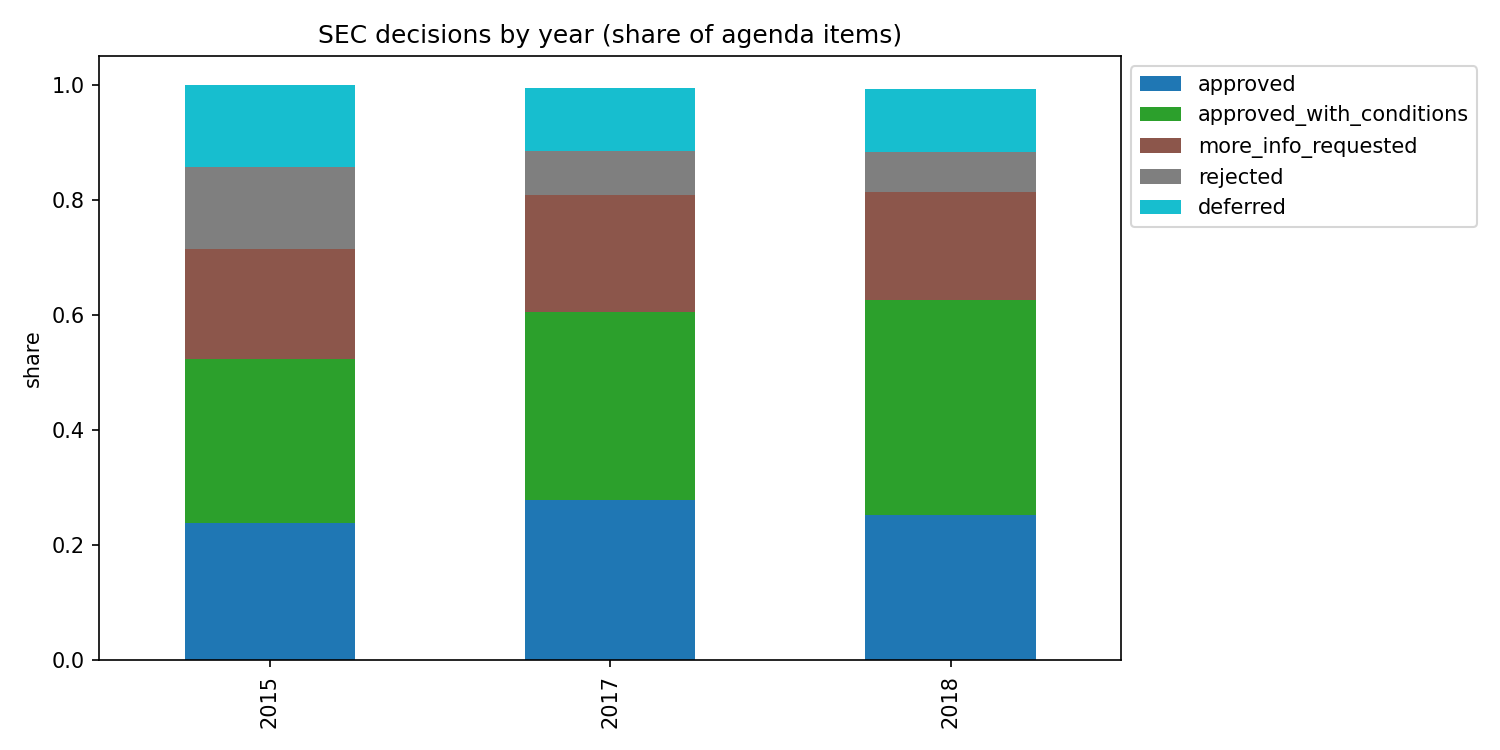
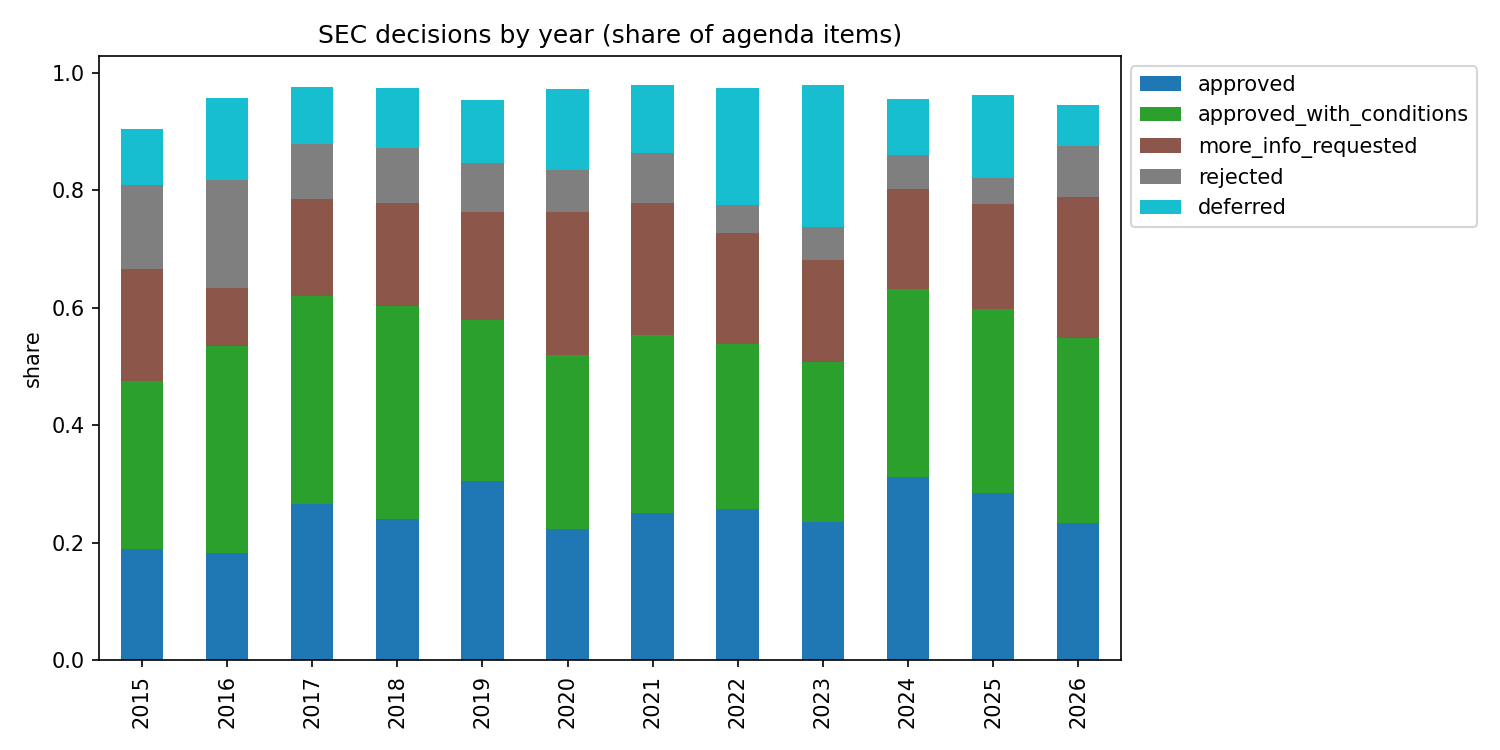
Trends, predictor baseline and paper draft on 4,670-item random sample

diff --git a/paper/regwatch_paper.md b/paper/regwatch_paper.md
@@ -1,0 +1,110 @@
+# RegWatch: LLM-Assisted Structuring and Analysis of a Decade of Indian Drug-Approval Committee Decisions
+
+*Draft, 2026-10-30. Numbers come from a fixed-seed random sample of 4,670 extracted agenda items (about one third of the corpus). The `[SAMPLE]` tables are refreshed when extraction completes. `[PENDING]` marks results that haven't been run yet.*
+
+## Abstract
+India's Central Drugs Standard Control Organisation (CDSCO) publishes the recommendations of its Subject Expert Committees (SECs) as unstructured PDF minutes. We build RegWatch, a pipeline that turns 1,864 SEC minutes (2015–2026) into a structured dataset of agenda-item decisions:
+- scraping and table-aware segmentation;
+- OCR for scanned files;
+- extraction of request type, decision, local-trial waiver and stated reasons by a large language model (LLM).
+
+Against 200 hand-labelled items, the extraction reaches Cohen's κ = 0.84 for the decision and κ = 0.74 for the request type. In a 4,575-decision random sample:
+- the decision mix differs across regulatory eras (χ² = 70.3, dof = 15, p < 10⁻⁸);
+- waiver requests are 7.3× more likely to be rejected (Fisher p < 10⁻⁴⁴);
+- the share of decisions stating any reason fell from about 44% (2016–17) to about 21% (2023–25).
+
+A leak-free baseline that predicts the decision from the request text alone reaches κ = 0.35 on later years.
+
+## 1. Introduction
+SEC recommendations decide whether new drugs, trials and label changes reach Indian patients, yet they exist only as PDF tables. Prior work examined subsets by hand [Shetty et al., citation needed]. We ask three questions:
+- **RQ1:** Can an LLM structure these minutes reliably?
+- **RQ2:** How have decisions, transparency and waiver outcomes changed across regulatory eras, especially the New Drugs and Clinical Trials (NDCT) Rules of 2019 and COVID-19?
+- **RQ3:** Can the outcome be predicted from what the applicant asks for?
+
+## 2. Data and pipeline
+1. **Collection.** The CDSCO SEC page index has 1,865 rows. We downloaded 1,864 PDFs (one .doc was skipped) and extracted text with PyMuPDF.
+2. **Segmentation.** Agenda items are cut from PDF table rows, giving 13,991 items.
+3. **OCR.** 65 scanned PDFs (mostly 2018–19) have no text layer. We OCR them with Tesseract and cut items at sequential item numbers. This added 273 items from 54 PDFs; 11 PDFs yielded none.
+4. **Extraction.** Each item of at least 80 characters goes to `gemini-3.5-flash-lite` (temperature 0, JSON output, batches of 10). The model returns is_decision, request type (7 classes), decision (6 classes), waiver requested or granted, reasons stated, a reason summary, conditions, and whether risk–benefit was discussed. Items are processed in a fixed random order, so any partial run is an unbiased sample.
+5. **Committee and year.** These come from the index. Committee names are normalised from about 60 title spellings by regular expressions. The year is the release year.
+
+## 3. Annotation and extraction validity (RQ1)
+**Gold set.** 200 items, stratified by year, were labelled by one annotator (the author).
+- After a first comparison, the labelling guide was revised with four rules:
+  - R1: a refused local-trial waiver counts as *rejected*.
+  - R2: request type is what was asked for, not conditions imposed.
+  - R3: "granted subject to submitting X" counts as *approved with conditions*.
+  - R4: *other* is used only when no request or decision is identifiable.
+- The relabel changed 82 labels across 65 items. It was drafted with LLM assistance and reviewed by the annotator, and every change is logged.
+- Agreement between gold v1 and v2 is κ = 0.75 for both request type and decision.
+
+**Extraction accuracy (gold v2, n = 200):**
+
+| Field | Accuracy | Macro-F1 | κ |
+|---|---|---|---|
+| is_decision | 0.99 | 0.83 | 0.66 |
+| request_type | 0.80 | 0.78 | 0.74 |
+| local_ct_waiver_requested | 0.99 | 0.97 | 0.93 |
+| decision | 0.88 | 0.87 | 0.84 |
+| reasons_stated | 0.81 | 0.80 | 0.60 |
+
+**Main remaining errors:**
+- Marketing requests that include a bioequivalence or clinical study are labelled *clinical_trial* or *bioequivalence*.
+- The model over-uses *approved_with_conditions*: 15 of its 25 decision errors.
+
+## 4. Trends (RQ2) `[SAMPLE]`
+Sample: n = 4,575 decisions, with every year from 2015 to 2026 represented. 2015–16 has only 92 items.
+
+**Decision share by regulatory era:**
+
+| Era | Approved | Approved w/ conditions | More info | Rejected | Deferred | n |
+|---|---|---|---|---|---|---|
+| ≤2018 (pre-NDCT) | 0.25 | 0.36 | 0.17 | 0.10 | 0.10 | 921 |
+| 2019 (NDCT Rules) | 0.31 | 0.28 | 0.18 | 0.08 | 0.11 | 262 |
+| 2020–21 (COVID) | 0.24 | 0.30 | 0.23 | 0.08 | 0.13 | 921 |
+| 2022+ | 0.27 | 0.30 | 0.19 | 0.06 | 0.16 | 2,471 |
+
+- The mix differs significantly across eras (χ² = 70.3, dof = 15, p = 4×10⁻⁹).
+- Rejections fall steadily, from 10% to 6%.
+- Deferrals rise, from 10% to 16%.
+- Requests for more information peaked during COVID.
+
+**Waivers.** 423 decisions involved a local-trial waiver request. A waiver request raises the odds of rejection 7.3-fold (Fisher exact p = 9×10⁻⁴⁵), consistent with earlier manual findings [Shetty et al.].
+
+**Transparency.** Overall, 30.7% of decisions state any reason.
+- The share fell from 0.44 (2016–17) to 0.37 (2018), 0.26 (2022) and 0.19–0.24 (2023–25).
+- Explicit risk–benefit discussion fell from about 0.15 (2016–17) to about 0.03 (2023–25).
+- 2026 (partial year) shows a rebound to 0.35.
+
+**By request type:**
+- Marketing applications for new drugs have the highest rejection rate (14%).
+- Bioequivalence studies are mostly approved with conditions (49%).
+
+See `results/decisions_by_year.png` and `results/transparency_by_year.png`.
+
+## 5. Decision prediction (RQ3) `[SAMPLE]`
+**Setup.**
+- Input is only the request part of each item: text before the first verdict phrase, such as "After detailed deliberation" or "the committee recommended". Items without a clean cut are dropped, so the label cannot leak.
+- Labels are the LLM decisions (5 classes). Gold items are held out and scored against human labels.
+- Split by year: train ≤2022 (n = 2,356), test ≥2023 (n = 1,775).
+
+| Model | Test macro-F1 | Test κ | Gold macro-F1 | Gold κ |
+|---|---|---|---|---|
+| Majority class | 0.10 | 0.00 | 0.07 | 0.00 |
+| TF-IDF + SVD + request fields → gradient boosting | 0.45 | 0.35 | 0.39 | 0.25 |
+| BiomedBERT (PubMedBERT) fine-tuned | `[PENDING]` | `[PENDING]` | `[PENDING]` | `[PENDING]` |
+
+The request text carries real signal about the outcome, well above chance, but most of the decision depends on deliberation not visible in the request.
+
+## 6. Limitations
+- **Single annotator.** Gold v2 was revised with LLM assistance, which may bias gold toward model behaviour. Mitigations: written rules, a full change log, annotator review, and both versions reported.
+- **LLM labels.** The trend and prediction labels are LLM outputs. Gold accuracy (κ 0.74–0.84) bounds their reliability.
+- **OCR coverage.** 11 of 65 scanned PDFs yielded no items, and OCR items lose their table structure.
+- **Dates.** We use the release year, not the meeting date, so late-December meetings can shift by one year.
+- **Sample.** Current numbers come from a random third of the corpus. 2015–16 is thin (92 items).
+
+## 7. Conclusion
+`[To write after full extraction and the PubMedBERT run.]` RegWatch shows that an inexpensive LLM can structure regulatory minutes with substantial agreement with a human annotator. It also reveals a decline in stated justification in Indian drug-approval decisions since 2017.
+
+## Reproducibility
+Code: `download_sec.py`, `segment.py`, `ocr.py`, `extract.py`, `evaluate.py`, `analyze.py`, `predict.py` and `predictor_pubmedbert.ipynb`. The data is rebuilt from public CDSCO pages. Gold labels (v1 and v2) and the relabel log are in `labels/`.
